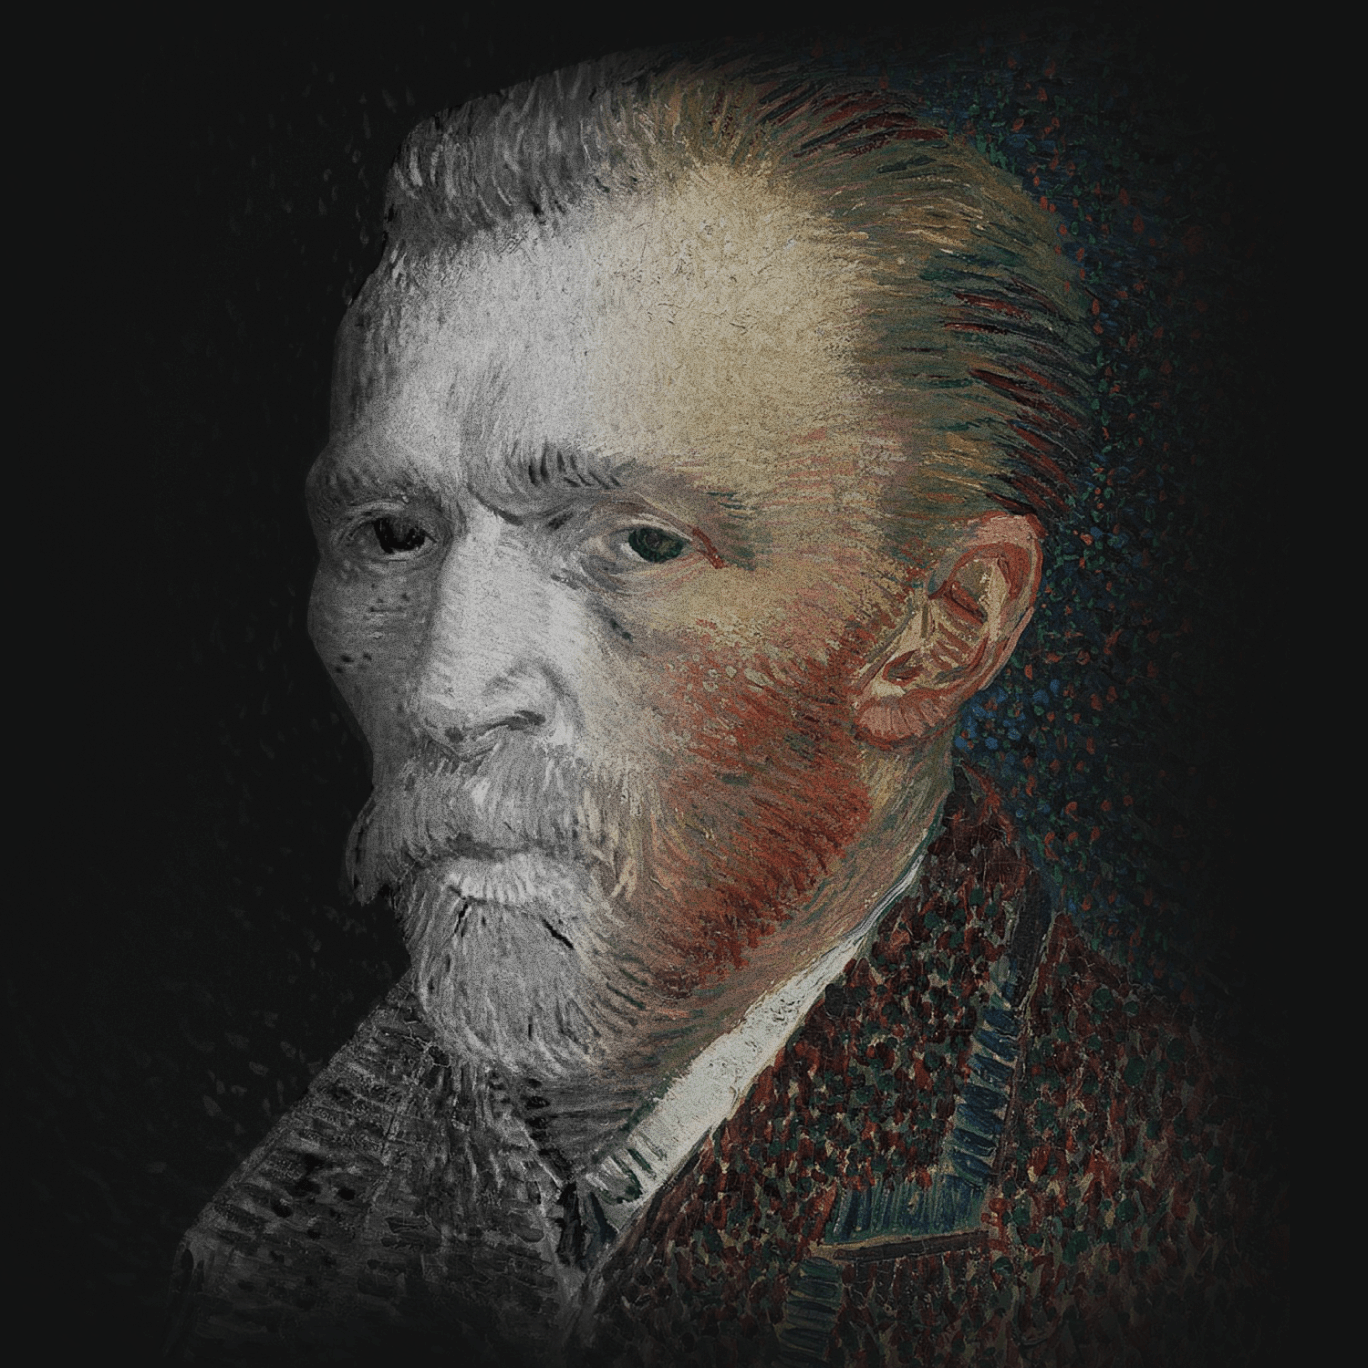
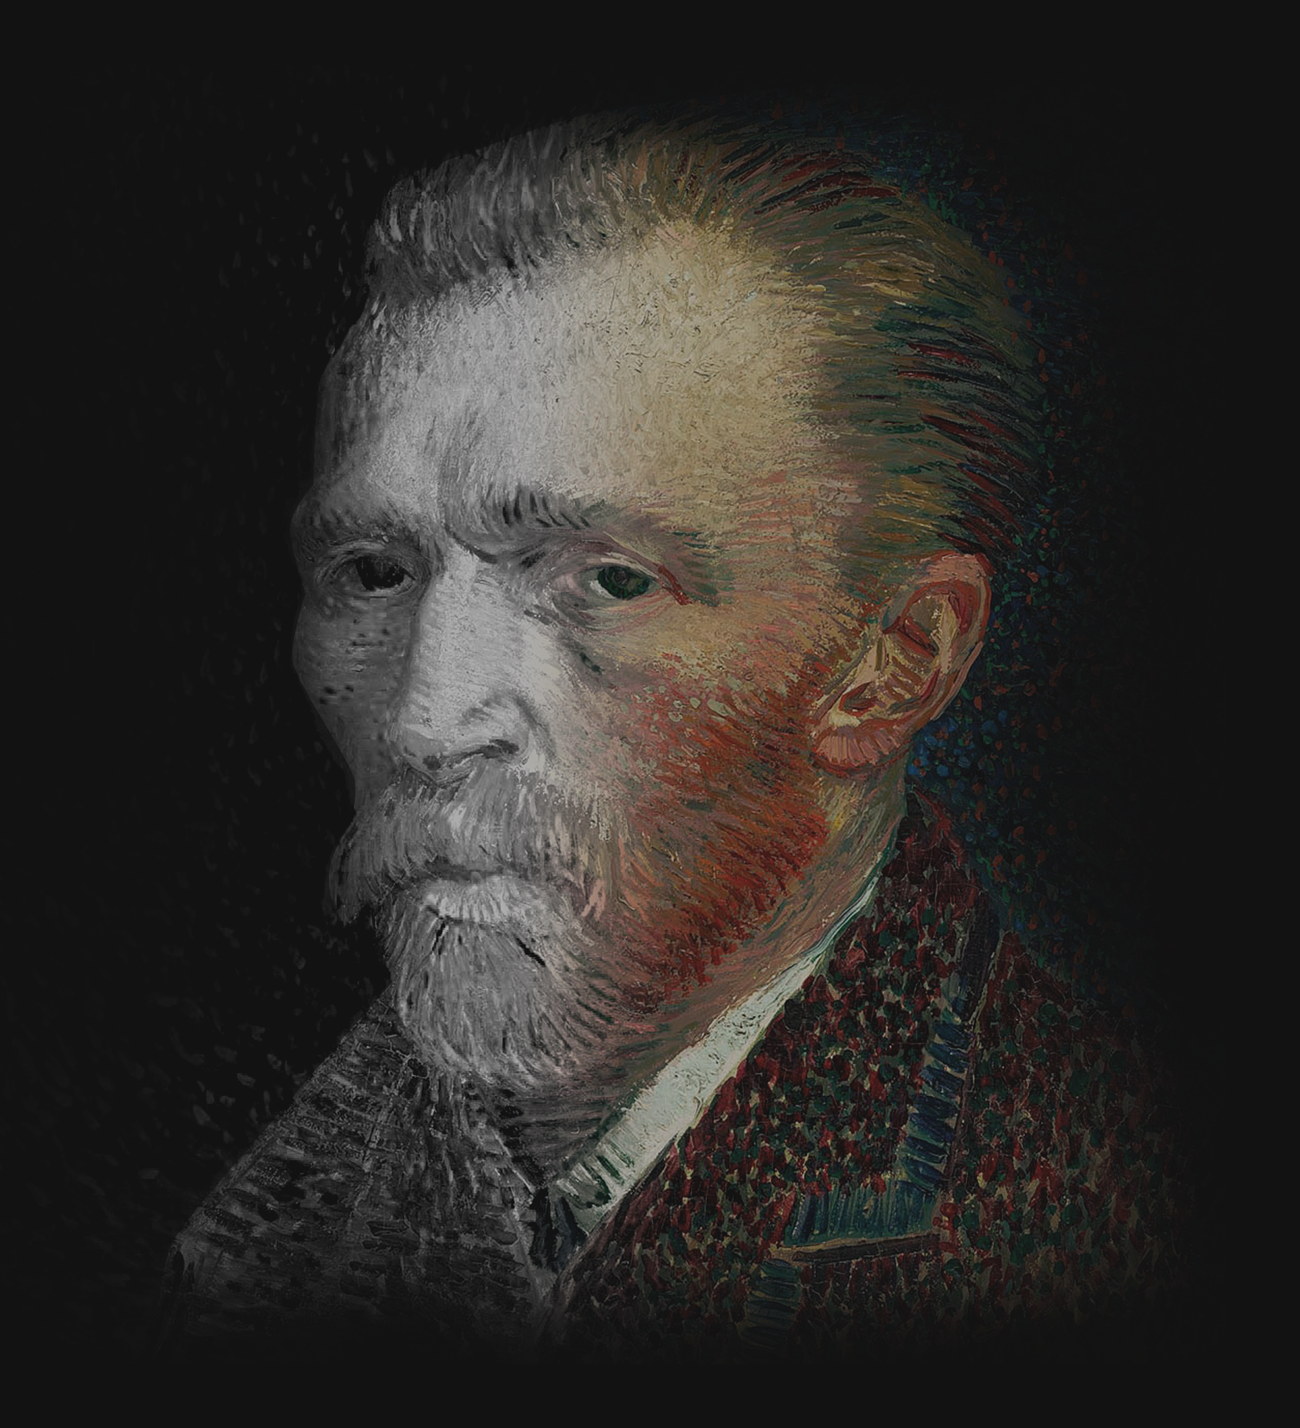
Fix responsive styles

Changed region(s): [[0.1231, 0.0307, 0.8615, 1.0]]

diff --git a/src/components/pages/LandingPage/index.js b/src/components/pages/LandingPage/index.js
@@ -8,22 +8,32 @@ import HeroImage from 'images/hero-image.png';
 const useStyles = makeStyles((theme) => ({
   hero: {
     height: '80vh',
-
-    '& > *': {
-      width: '45%',
-    },
     '& > *:first-child': {
+      width: '45%',
       marginRight: '10%',
     },
-    [theme.breakpoints.down('sm')]: {
+    [theme.breakpoints.down('xs')]: {
+      height: 'auto',
       flexDirection: 'column',
-
-      '& > *': {
-        width: '100%',
-      },
       '& > *:first-child': {
+        width: '100%',
         marginRight: 0,
       },
+    },
+  },
+  image: {
+    width: '50%',
+    height: 800,
+    backgroundImage: `url(${HeroImage})`,
+    backgroundPosition: 'center',
+    backgroundRepeat: 'no-repeat',
+    backgroundSize: '684px 714px',
+
+    [theme.breakpoints.down('xs')]: {
+      width: '100%',
+      height: 400,
+      marginTop: theme.spacing(1),
+      backgroundSize: '100%',
     },
   },
 }));
@@ -55,7 +65,7 @@ export default function LandingPage() {
           </Button>
         </Box>
 
-        <img src={HeroImage} alt="Van Gogh" />
+        <Box className={classes.image} />
       </Box>
     </Container>
   );

diff --git a/src/components/navigation/LandingNav/index.js b/src/components/navigation/LandingNav/index.js
@@ -27,7 +27,7 @@ export default function LandingNav({ children }) {
 
   return (
     <>
-      <AppBar position="fixed" elevation={0}>
+      <AppBar position="fixed" elevation={0} color="transparent">
         <Toolbar>
           <IconButton
             className={classes.logo}
